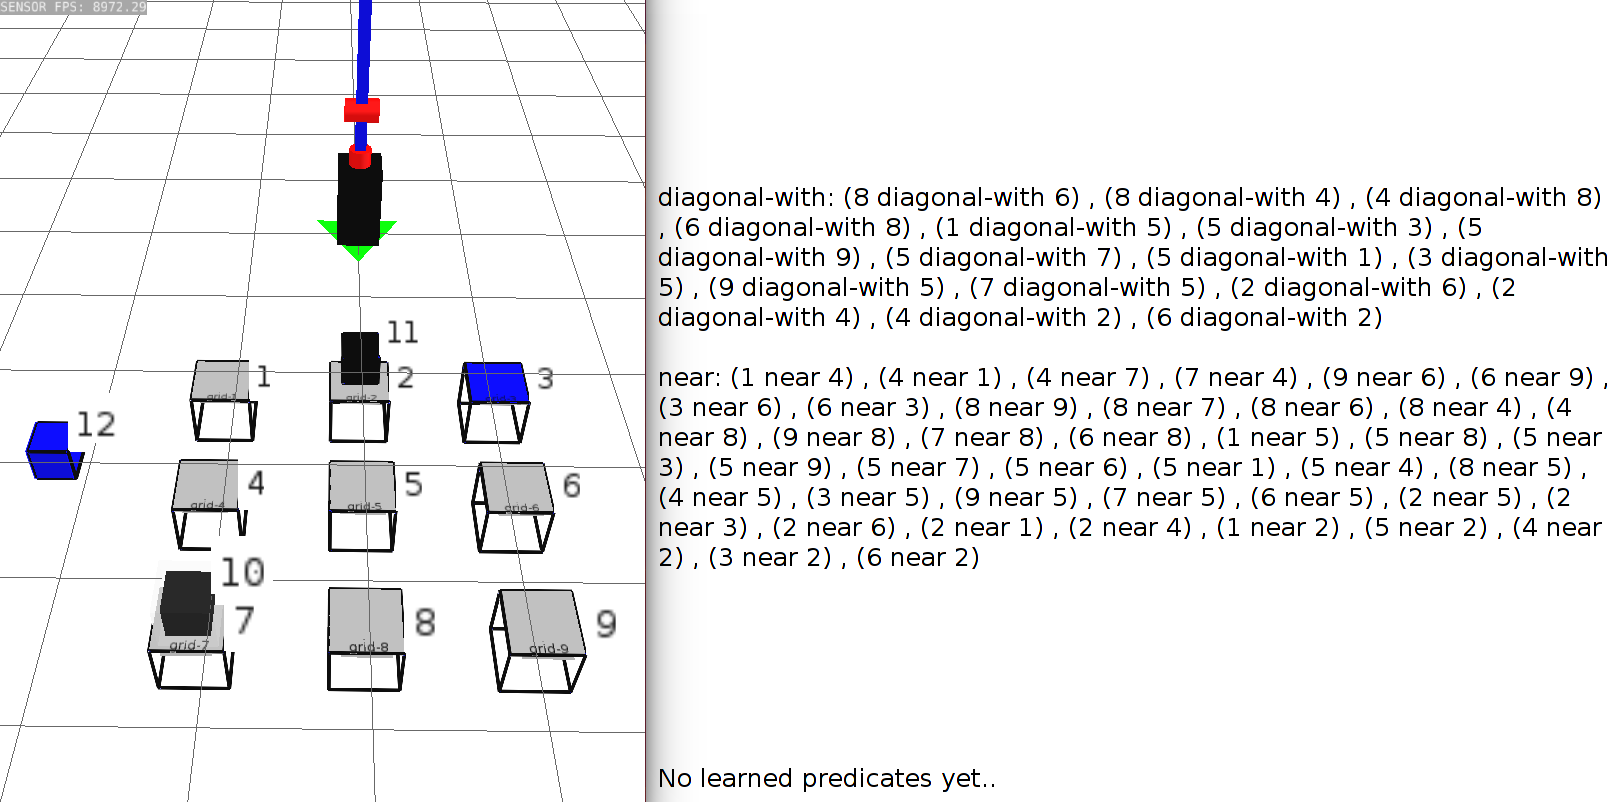
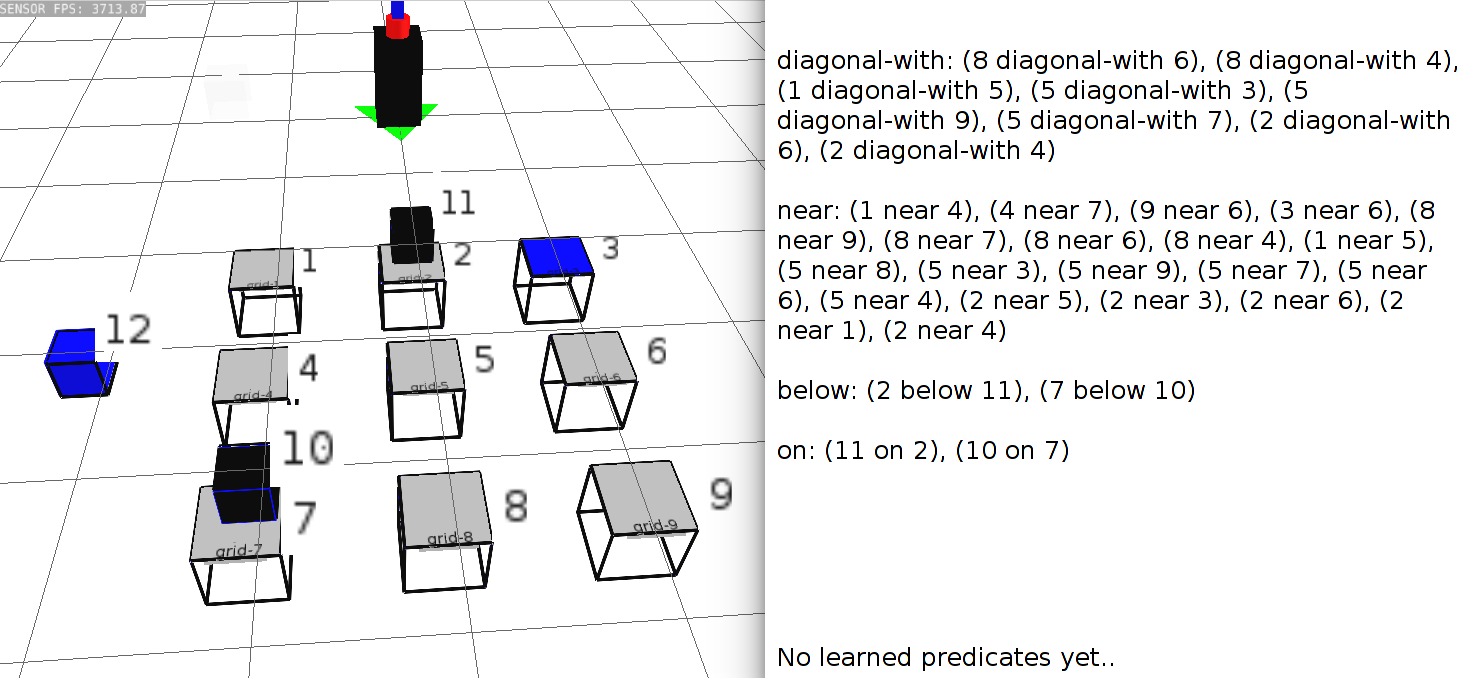
Default image for annotations, made changes to question- answers and added conditions for control examples

diff --git a/index.html b/index.html
@@ -15,12 +15,13 @@
                 or an action to a robot. However, the robot is unable to detect the goal in its environment or it is unable to do the action the mentor is trying to teach.
                 Your goal is to identify why the robot was unable to do this. You will write down text identifying the reason and your goal is to select
                 the most precise answer from the drop down before submitting the answer. Each example is independent from each other.</p>
-           <p> based on the example, you will be provided with options (Showing concepts and asking questions) you can use to gain more information about the robot. The goal is to answer as many questions correctly as possible. Use these options to validate your answer.</p>
-                <p> In each of these examples, you will see an image like the one presented below. The completely opaque green objects are "blocks" and the brown objects with labels loc1, loc2 and loc3 on them with hollow boxes are locations.
+           <p> Based on the example, you will be provided with options (Showing concepts and asking questions) that you can use to gain more information about the robot. The goal is to answer as many questions correctly as possible. Use these options to validate your answer.</p>
+           <p>For example, "Show clear" will show all objects that are "clear".</p> 
+                <p> In each of these examples, you will see an image like the one presented below. In this image, there are total 6 objects. The completely opaque green objects are "blocks" and the brown objects with labels loc1, loc2 and loc3 on them with hollow boxes are locations.
                 All objects typically have ids associated with them. In this case, the green blocks have ids 8, 9 and 10 and the brown locations have ids 1, 2 and 3.</p>
              
             <img src="images/trial_example.png">
-            <p> There will be two validation questions in between the examples and your HIT will be approved ONLY if you answer both validation questions correctly.</p>
+            <p> There will be two control questions in between the examples and your HIT will be approved ONLY if you answer both control questions correctly.</p>
             <p> You will receive a code at the end of the experiment which you must enter in order to get compensated. Press "Start Experiment" to start. 
             </p>
         </div>
@@ -52,20 +53,20 @@
             <!-- Where each set represents the condition-->
             <img id="img_set1" src="images/img_1.png" class="display_img">
             <img id="img_set2" src="images/img_2.png" class="display_img">
-            <img id="img_set3" src="images/img_3.png" class="display_img">
-            <img id="img_set4" src="images/img_4.png" class="display_img">
+            <img id="img_set3" src="images/img_3_annotations.png" class="display_img">
+            <img id="img_set4" src="images/img_4_annotations.png" class="display_img">
             <img id="img_set5" src="images/img_5.png" class="display_img">
             <img id="img_set6" src="images/img_6.png" class="display_img">
-            <img id="img_set7" src="images/img_7.png" class="display_img">
-            <img id="img_set8" src="images/img_8.png" class="display_img">
+            <img id="img_set7" src="images/img_7_annotations.png" class="display_img">
+            <img id="img_set8" src="images/img_8_annotations.png" class="display_img">
             <img id="img_set9" src="images/img_9.png" class="display_img">
             <img id="img_set10" src="images/img_10.png" class="display_img">
-            <img id="img_set11" src="images/img_11.png" class="display_img">
-            <img id="img_set12" src="images/img_12.png" class="display_img">
+            <img id="img_set11" src="images/img_11_annotations.png" class="display_img">
+            <img id="img_set12" src="images/img_12_annotations.png" class="display_img">
             <img id="img_set13" src="images/img_13.png" class="display_img">
             <img id="img_set14" src="images/img_14.png" class="display_img">
-            <img id="img_set15" src="images/img_15.png" class="display_img">
-            <img id="img_set16" src="images/img_16.png" class="display_img">
+            <img id="img_set15" src="images/img_15_annotations.png" class="display_img">
+            <img id="img_set16" src="images/img_16_annotations.png" class="display_img">
             <img id="img_set17" src="images/test.png" class="display_img">
             <img id="img_set18" src="images/test.png" class="display_img">
         </div>

diff --git a/main.js b/main.js
@@ -181,12 +181,12 @@ function next() { // This function will figure out which tab to display
         $("#img_set" + examples[curr_exp - 1].toString()).hide();
     }
 
-    if (curr_exp === 16) {
+    if (curr_exp === 18) {
         exit_to_survey();
     }
     else {
-        document.getElementById('serialno').innerHTML = curr_exp.toString();
-        document.getElementById('serialno').innerHTML += " " + curr_id.toString();
+        document.getElementById('serialno').innerHTML = (curr_exp+1).toString() + ".";
+        //document.getElementById('serialno').innerHTML += " " + curr_id.toString();
 
         $("#conv_set" + curr_id.toString()).show();
         $("#img_set" + curr_id.toString()).show();
@@ -303,13 +303,28 @@ function submitAnswer() {
     data_val[curr_id]["final_answer"] = $("#user-answer").val();
     data_val[curr_id]["Confidence"] = $("input[name='Confidence']:checked").val();
     data_val[curr_id]["final_time"] = Date.now();
-    // alert(JSON.stringify(data_val));
-    if(curr_exp == 15)
+//   debugger;
+    if(curr_exp === 17)
     {
-        $.post('save_data.php',{blah: JSON.stringify(data_val)},
-        function(data,status){
-            var a = data;
+      alert(JSON.stringify(data_val));
+      $.post('save_data.php',{blah: JSON.stringify(data_val)},
+         function(data,status){
+             alert(data);
+         });
+       /* $.ajax({
+            type: 'POST',
+            url: 'save_data.php',
+            data: {blah: "rrr"},
+        })
+        .done( function( data ) {
+            alert('done');
+            console.log(data);
+        })
+        .fail( function( data ) {
+            alert('fail');
+            console.log(data);
         });
+*/
     }
     
     next();
